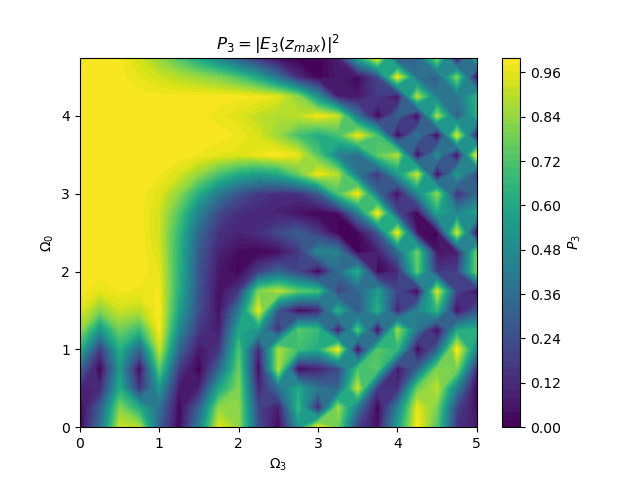
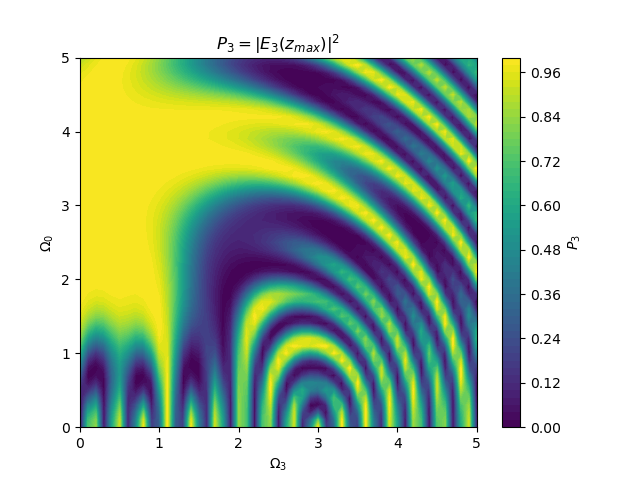
Multiprocessing in 3 state compute

diff --git a/su2_3state.py b/su2_3state.py
@@ -1,38 +1,33 @@
+from functools import partial
 import numpy as np
 from scipy.integrate import solve_ivp
 import matplotlib.pyplot as plt
+from multiprocessing import Pool
+from tqdm import tqdm
 
-def omega_coeffs(z, omega0, phi, zp, nn):
+def omega_coeffs(z, omega0, phi, zp_cumsum):
     """
-    For a given propagation coordinate z, compute the effective 
-    coefficients omega1 and omega2 using a piecewise-constant model.
+    Compute effective coefficients omega1 and omega2 for a given z,
+    using a precomputed cumulative sum of zp.
     
-    In the Mathematica code the sum over m (from 1 to nn) with
-      UnitStep[z - sum_{k=1}^m zp[k]] - UnitStep[z - sum_{k=1}^{m+1} zp[k]]
-    selects the mth segment.
+    Parameters:
+      z         : current propagation coordinate (scalar)
+      omega0    : overall amplitude
+      phi       : list/array of phases for each segment (length = nn)
+      zp_cumsum : precomputed cumulative sum of zp (length = nn+1)
     
-    Here we compute the cumulative sums of zp (which is assumed to have length nn+1)
-    and check in which segment z falls. Then, omega1 and omega2 are given by:
-    
-       omega1 = omega0 * sin(phi[m-1])
-       omega2 = omega0 * cos(phi[m-1])
-    
-    (Only one term will contribute if z is not exactly at a boundary.)
+    Returns:
+      omega1 = omega0 * sin(phi[idx])
+      omega2 = omega0 * cos(phi[idx])
+      where idx is determined using np.searchsorted.
     """
-    # Compute cumulative distances; note that zp is given as a list/array.
-    c = np.cumsum(zp)
-    omega1 = 0.0
-    omega2 = 0.0
-    # Loop over segments m = 1,...,nn (Mathematica indexing)
-    for m in range(1, nn + 1):
-        lower = c[m - 1]
-        upper = c[m]  # since len(zp)==nn+1, c[m] exists for m=1,...,nn.
-        if (z >= lower) and (z < upper):
-            omega1 += omega0 * np.sin(phi[m - 1])
-            omega2 += omega0 * np.cos(phi[m - 1])
-    return omega1, omega2
+    # Find the segment index such that zp_cumsum[idx] <= z < zp_cumsum[idx+1]
+    idx = np.searchsorted(zp_cumsum, z, side='right') - 1
+    if idx < 0 or idx >= len(phi):
+        return 0.0, 0.0
+    return omega0 * np.sin(phi[idx]), omega0 * np.cos(phi[idx])
 
-def ode_system(z, y, omega0, omega3, zp, phi, nn):
+def ode_system(z, y, omega0, omega3, zp_cumsum, phi):
     """
     Defines the system of three coupled ODEs:
       E1' = -i * omega1 * E2 - omega3 * E3
@@ -40,88 +35,101 @@ def ode_system(z, y, omega0, omega3, zp, phi, nn):
       E3' =  omega3 * E1 - i * omega2 * E2
     with Delta = 0.
     
-    The coefficients omega1 and omega2 depend on z through a piecewise function.
+    Uses the efficient version of omega_coeffs.
     """
     E1, E2, E3 = y
-    omega1, omega2 = omega_coeffs(z, omega0, phi, zp, nn)
+    omega1, omega2 = omega_coeffs(z, omega0, phi, zp_cumsum)
     delta = 0.0  # as in the Mathematica code
     dE1dz = -1j * omega1 * E2 - omega3 * E3
     dE2dz = -1j * np.conjugate(omega1) * E1 - 1j * delta * E2 - 1j * np.conjugate(omega2) * E3
     dE3dz = omega3 * E1 - 1j * omega2 * E2
     return [dE1dz, dE2dz, dE3dz]
 
-def Population(omega0, omega3, zp, phi, zmin, zmax, nn):
+def Population(omega0, omega3, zp_cumsum, phi, zmin, zmax):
     """
     Solves the ODE system from zmin to zmax with initial conditions
-      E1(zmin) = 1, E2(zmin) = 0, E3(zmin) = 0
+      E1(zmin)=1, E2(zmin)=0, E3(zmin)=0
     and returns |E3(zmax)|^2.
     """
-    # Initial conditions (using complex numbers)
     y0 = [1+0j, 0+0j, 0+0j]
-    sol = solve_ivp(fun=lambda z, y: ode_system(z, y, omega0, omega3, zp, phi, nn),
+    sol = solve_ivp(lambda z, y: ode_system(z, y, omega0, omega3, zp_cumsum, phi),
                     t_span=(zmin, zmax), y0=y0, method='RK45',
                     atol=1e-8, rtol=1e-6)
-    # Extract E3 at z = zmax (the last computed point)
     E3_final = sol.y[2, -1]
     return np.abs(E3_final)**2
 
-# ------------------------------------------------------------
-# Parameters (using the second set from your code)
-Eta = 1.0
-# zp has length nn+1; here for nn=10 we need 11 elements.
-zp = [0, Eta, Eta, Eta, Eta, Eta, Eta, Eta, Eta, Eta, Eta]
-nn = 10
-Alpha = np.pi / 2
+if __name__ == '__main__':
+    # -------------------------------
+    # Parameters (using the second set from your code)
+    # -------------------------------
+    Eta = 1.0
+    nn = 10
+    # zp has length nn+1; here we use [0, Eta, Eta, ..., Eta]
+    zp = [0] + [Eta] * nn
+    # Precompute cumulative sum of zp
+    zp_cumsum = np.array(np.cumsum(zp))
+    
+    Alpha = np.pi / 2
+    # Final definition of phi (length nn = 10)
+    phi = [0,
+           5 * np.pi / 6,
+           np.pi / 3,
+           5 * np.pi / 6,
+           0,
+           np.pi + Alpha/2,
+           11 * np.pi/6 + Alpha/2,
+           4 * np.pi/3 + Alpha/2,
+           11 * np.pi/6 + Alpha/2,
+           np.pi + Alpha/2]
+    
+    zmin = 0.0
+    zmax = nn * Eta  # total propagation length (10)
+    zstep = 0.1     # (not directly used in integration)
+    
+    # Define the ranges for omega3 and omega0.
+    # In the Mathematica code, omega3 goes from 0 to 5 with step 5/50, and
+    # omega0 goes from 0 to 5 with step 5/50.
+    omega3_min = 0.0
+    omega3_max = 5.0
+    omega3_step = 5.0 / 50.0
 
-# Final definition of phi (length nn = 10):
-phi = [0,
-       5 * np.pi / 6,
-       np.pi / 3,
-       5 * np.pi / 6,
-       0,
-       np.pi + Alpha/2,
-       11 * np.pi/6 + Alpha/2,
-       4 * np.pi/3 + Alpha/2,
-       11 * np.pi/6 + Alpha/2,
-       np.pi + Alpha/2]
+    omega0_min = 0.0
+    omega0_max = 5.0
+    omega0_step = 5.0 / 50.0
 
-zmin = 0.0
-zmax = nn * Eta  # total propagation length (10)
-zstep = 0.1     # (not directly used in integration)
+    omega0_values = np.arange(omega0_min, omega0_max + 1e-6, omega0_step)
+    omega3_values = np.arange(omega3_min, omega3_max + 1e-6, omega3_step)
 
-# Define the ranges for omega3 and omega0.
-# In the Mathematica code, omega3 goes from 0 to 5 with step 5/20, and
-# omega0 goes from 5 to 0 with step -5/20.
-omega3_min = 0.0
-omega3_max = 5.0
-omega3_step = 5.0 / 20.0
+    # -------------------------------
+    # Create a list of tasks for each (omega0, omega3) pair.
+    # -------------------------------
+    tasks = []
+    for omega0 in omega0_values:
+        for omega3 in omega3_values:
+            tasks.append((omega0, omega3))
 
-omega0_max = 0.0
-omega0_min = 5.0
-omega0_step = 5.0 / 20.0  # descending order
+    # -------------------------------
+    # Use multiprocessing Pool with tqdm to compute the population for each task.
+    # -------------------------------
+    with Pool() as pool:
+        func = partial(Population, zp_cumsum=zp_cumsum, phi=phi, zmin=zmin, zmax=zmax)
+        results = list(tqdm(pool.starmap(func, tasks),
+                            total=len(tasks)))
+    
+    # Reshape results into a 2D grid
+    P3 = np.array(results).reshape(len(omega0_values), len(omega3_values))
 
-omega0_values = np.arange(omega0_max, omega0_min - 1e-6, omega0_step)
-omega3_values = np.arange(omega3_min, omega3_max + 1e-6, omega3_step)
+    # -------------------------------
+    # Plot a contour map of P3.
+    # -------------------------------
+    Omega3_grid, Omega0_grid = np.meshgrid(omega3_values, omega0_values)
+    plt.contourf(Omega3_grid, Omega0_grid, P3, levels=50, cmap='viridis')
+    plt.xlabel(r'$\Omega_3$')
+    plt.ylabel(r'$\Omega_0$')
+    plt.title(r'$P_3 = |E_3(z_{max})|^2$')
+    plt.colorbar(label=r'$P_3$')
+    plt.savefig('population_transfer_3state.png')
+    plt.show()
 
-# Prepare a grid to hold the computed Population values P3.
-P3 = np.zeros((len(omega0_values), len(omega3_values)))
-
-# Loop over the grid and compute Population for each (omega0, omega3) pair.
-for i, omega0 in enumerate(omega0_values):
-    for j, omega3 in enumerate(omega3_values):
-        P3[i, j] = Population(omega0, omega3, zp, phi, zmin, zmax, nn)
-
-# Plot a contour map of P3.
-# Note: meshgrid is used with omega3 on the horizontal axis and omega0 on the vertical.
-Omega3_grid, Omega0_grid = np.meshgrid(omega3_values, omega0_values)
-plt.contourf(Omega3_grid, Omega0_grid, P3, levels=50, cmap='viridis')
-plt.xlabel(r'$\Omega_3$')
-plt.ylabel(r'$\Omega_0$')
-plt.title(r'$P_3 = |E_3(z_{max})|^2$')
-plt.colorbar(label=r'$P_3$')
-plt.savefig('population_transfer_3state.png')
-plt.show()
-
-
-# # Export the data to a file (using a Windows-style path as in your code).
-# np.savetxt("c:\\data\\P3.dat", P3)
+    # Optionally, export the data to a file:
+    # np.savetxt("c:\\data\\P3.dat", P3)
